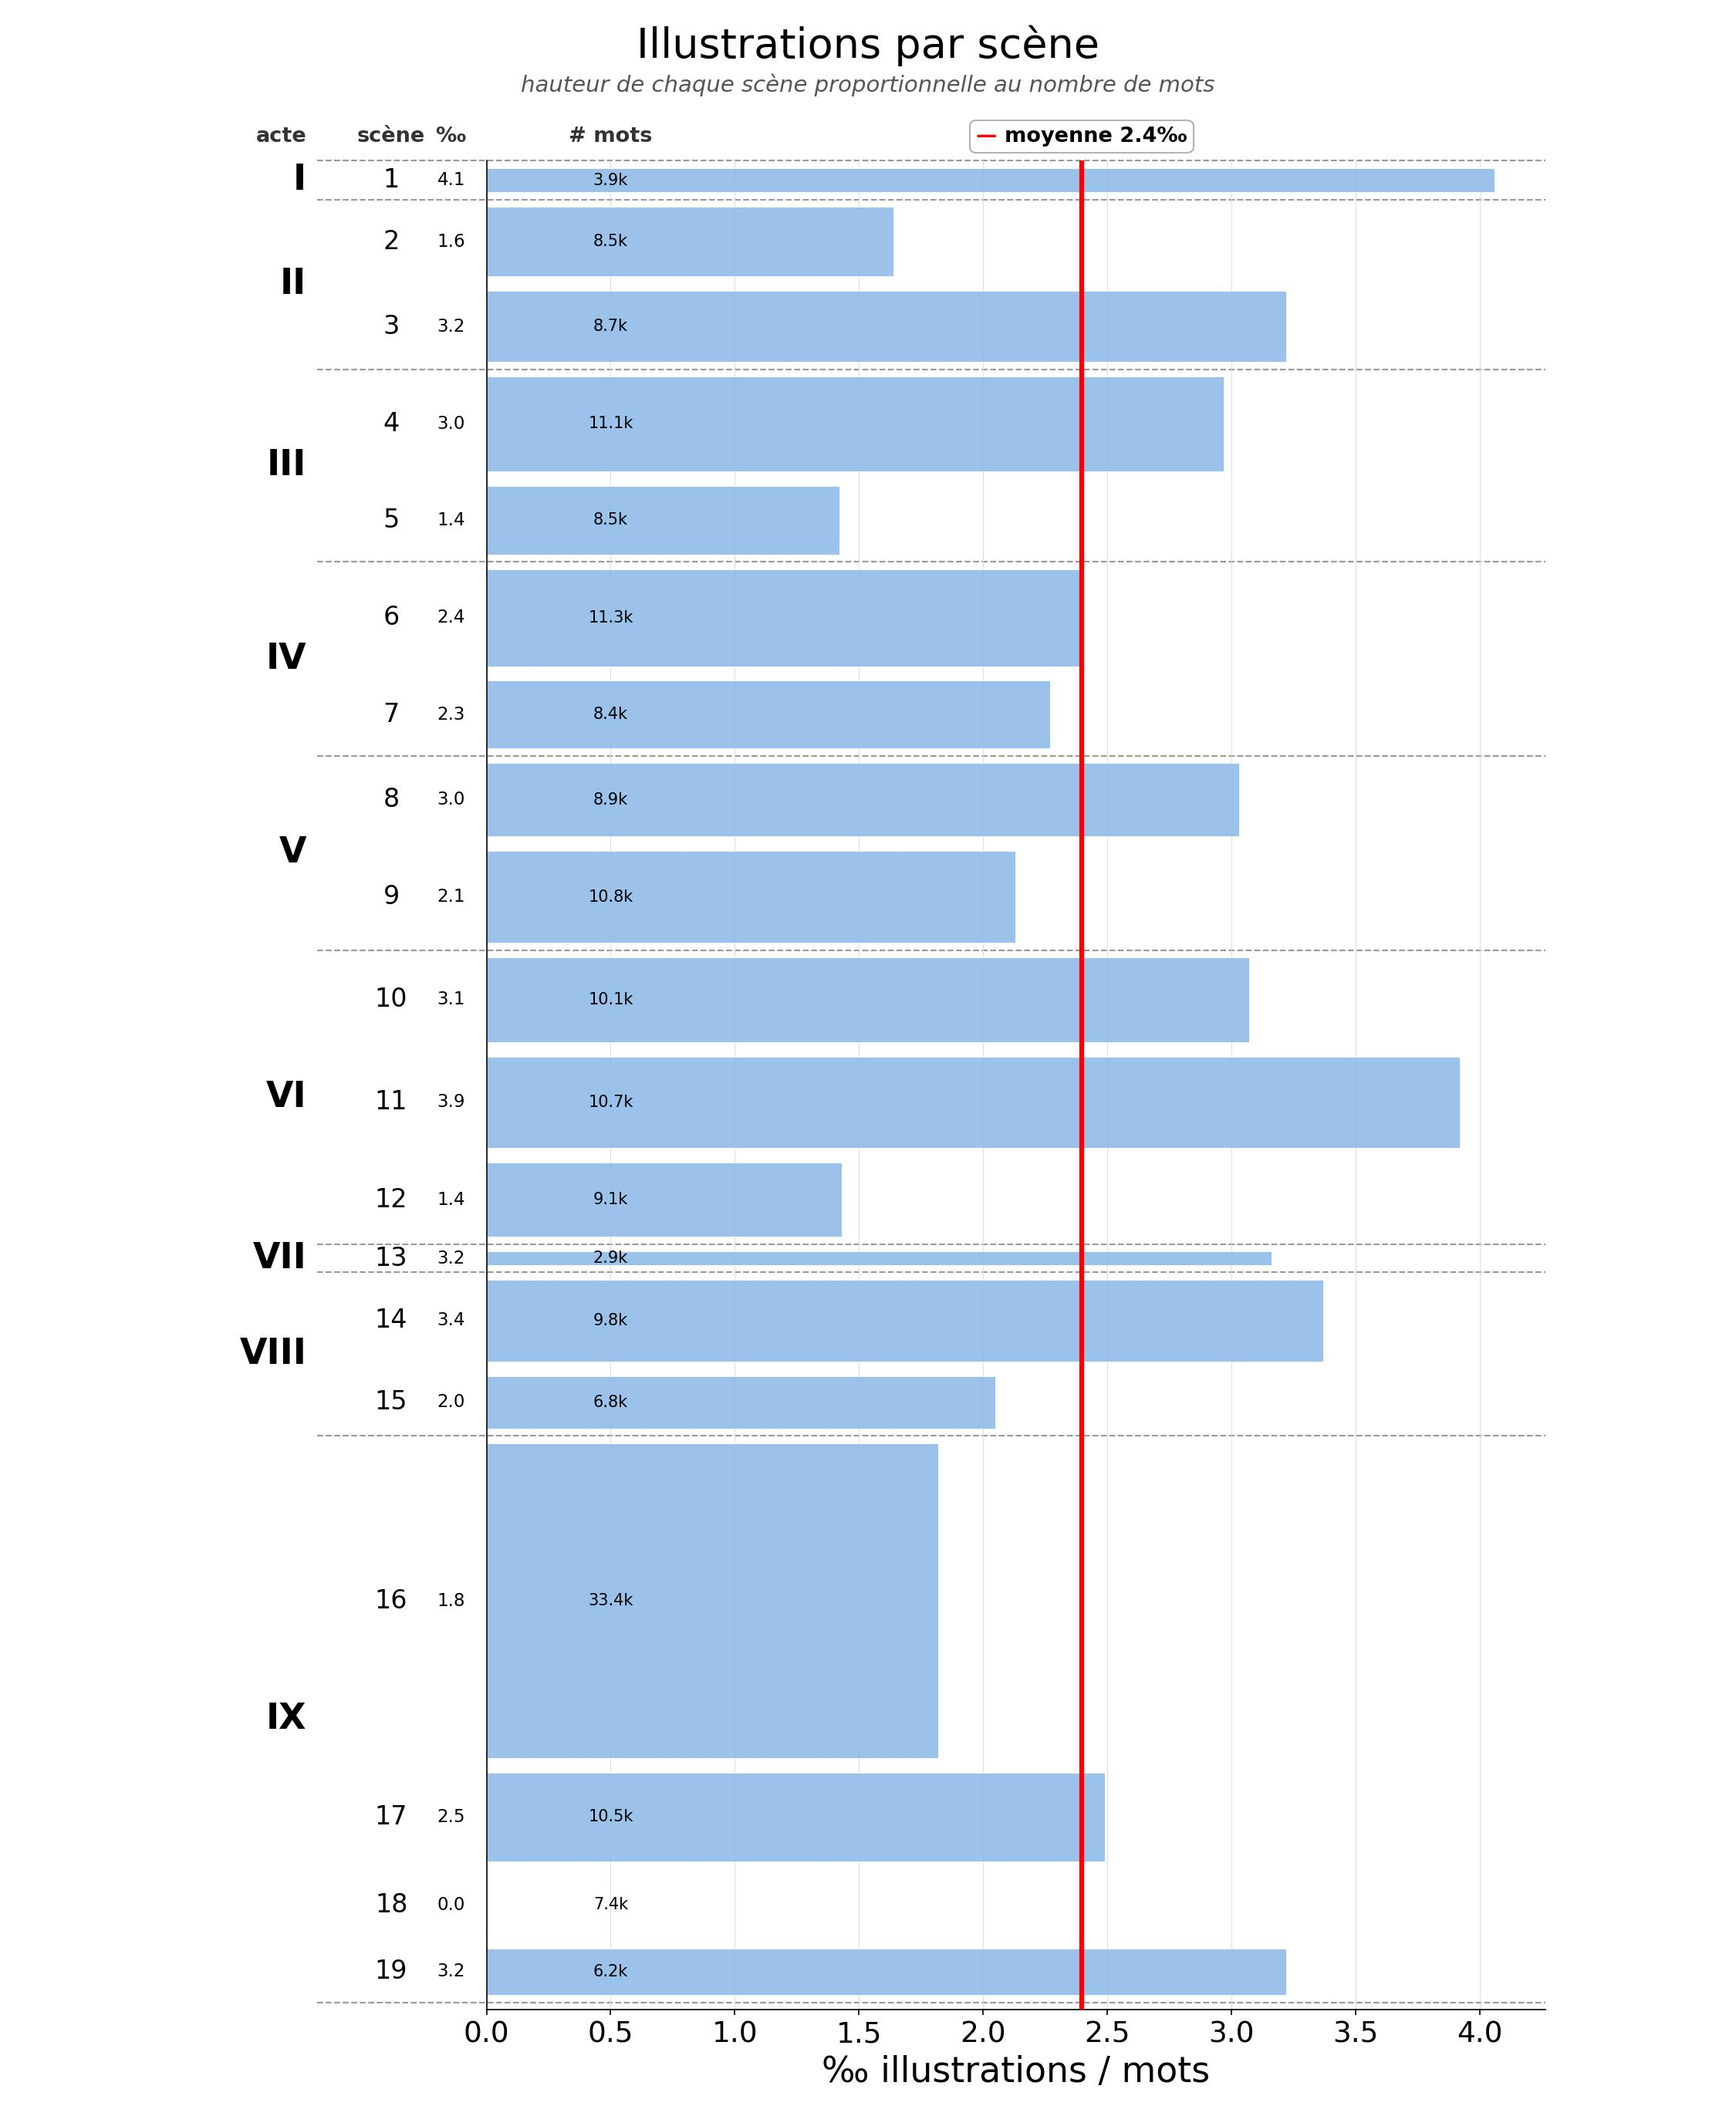
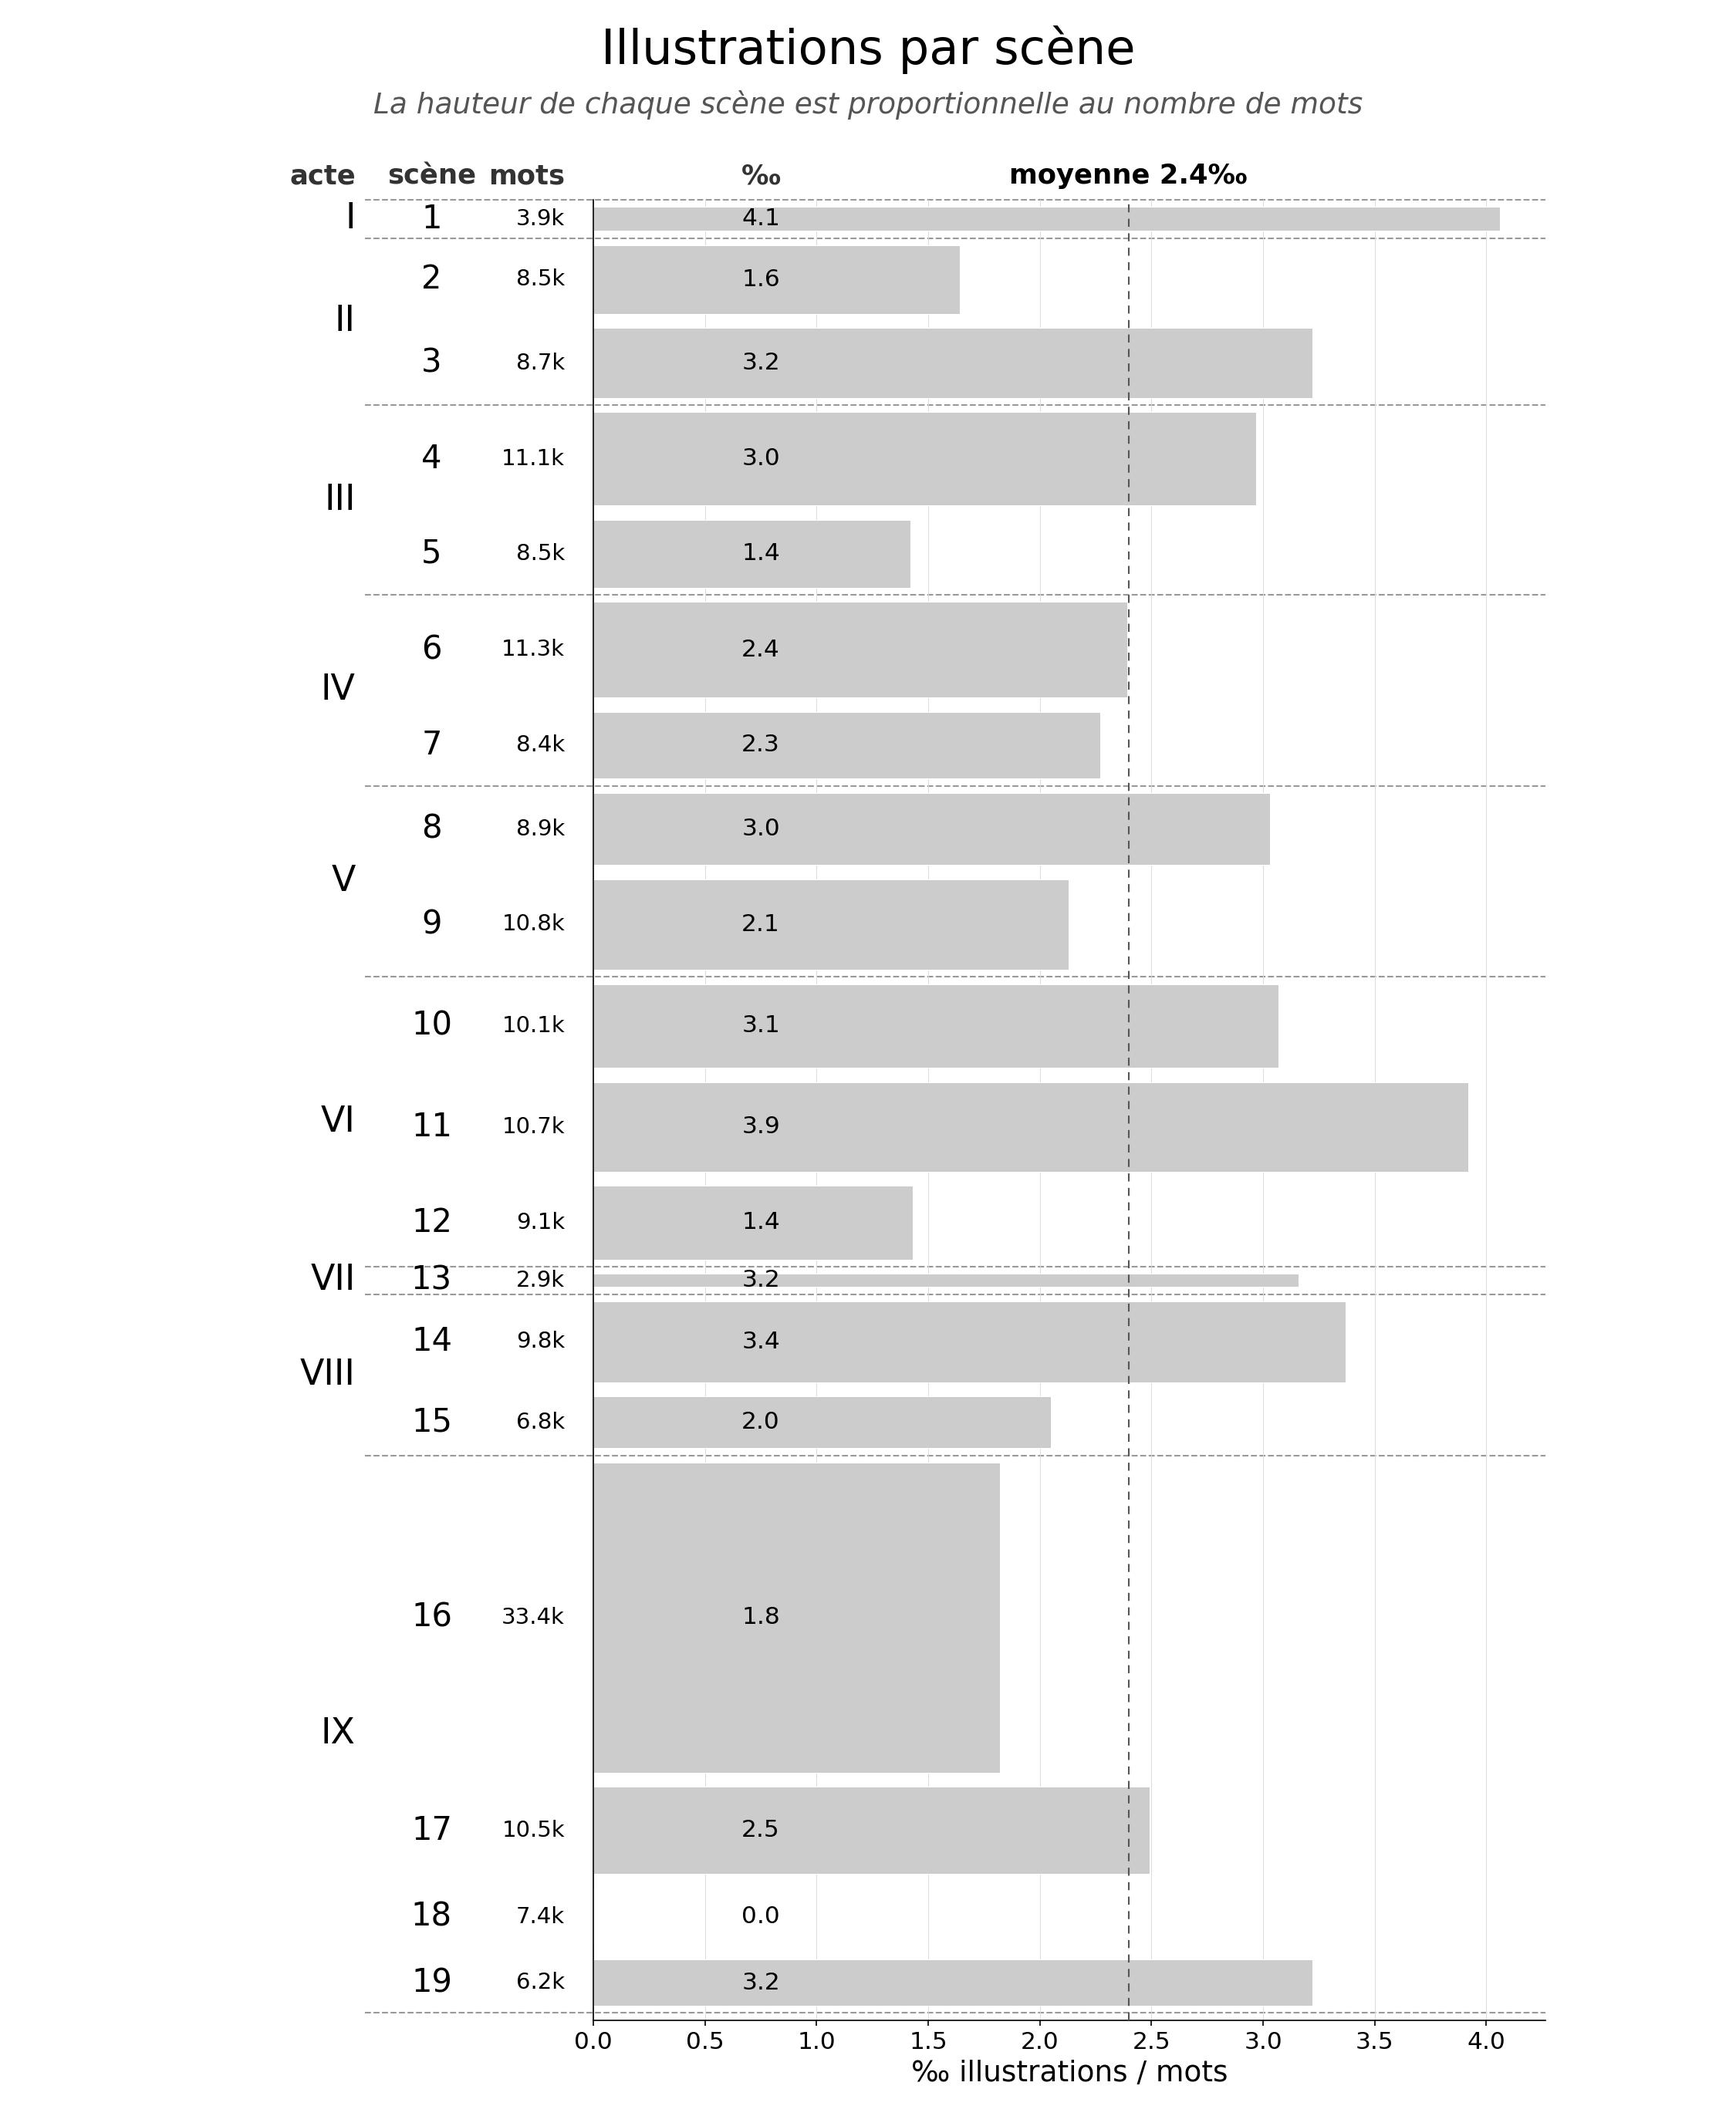
stats: horizontal chart B&W overhaul — grayscale bars, dashed mean line, larger fonts, swapped mots/‰ columns

diff --git a/stats.py b/stats.py
@@ -456,7 +456,7 @@ def _png_illus_chart_h(rows_split: list) -> str:
         matplotlib.use("Agg")
         import matplotlib.pyplot as plt
         from matplotlib.transforms import blended_transform_factory
-        from matplotlib.offsetbox import TextArea, HPacker, AnnotationBbox
+
     except ImportError:
         return ""
 
@@ -481,24 +481,24 @@ def _png_illus_chart_h(rows_split: list) -> str:
     trans_mixed = blended_transform_factory(ax.transAxes, ax.transData)
 
     # Column x positions (axes fraction, except # mots which is in data x)
-    X_ACTE = -0.17   # acte Roman numeral — right-aligned
-    X_SC   = -0.09   # scene number       — centre-aligned
-    X_PROM = -0.02   # ‰ value            — right-aligned
+    X_ACTE = -0.25   # acte Roman numeral — right-aligned
+    X_SC   = -0.17   # scene number       — centre-aligned
+    X_PROM = -0.03   # mots value         — right-aligned
     # # mots at data x = 0.5
 
     for b, v, bh, wc in zip(bottoms, values, bar_heights_actual, words):
         y_bot = b + offset
         y_ctr = y_bot + bh / 2
-        ax.barh(y_bot, v, height=bh, align="edge", color="#89b8e8", alpha=0.85,
+        ax.barh(y_bot, v, height=bh, align="edge", color="#cccccc", alpha=1.0,
                 zorder=2, edgecolor="white", linewidth=0.5)
-        # ‰ value — own column, right of scene number, left of bar
-        ax.annotate(f"{v:.1f}", xy=(X_PROM, y_ctr), xycoords=("axes fraction", "data"),
-                    ha="right", va="center", fontsize=11, clip_on=False, zorder=4)
-        # word count pinned at x=0.5 graduation
-        ax.text(0.5, y_ctr, f"{wc/1000:.1f}k", ha="center", va="center",
-                fontsize=10, color="black", zorder=4)
+        # word count — own column, right of scene number, left of bar
+        ax.annotate(f"{wc/1000:.1f}k", xy=(X_PROM, y_ctr), xycoords=("axes fraction", "data"),
+                    ha="right", va="center", fontsize=14, clip_on=False, zorder=4)
+        # ‰ value pinned at x=0.75 graduation
+        ax.text(0.75, y_ctr, f"{v:.1f}", ha="center", va="center",
+                fontsize=15, color="black", zorder=4)
 
-    ax.axvline(mean_val, color="red", linewidth=3.0, zorder=3)
+    ax.axvline(mean_val, color="#555555", linewidth=1.0, linestyle=(0, (5, 4)), zorder=3)
 
     # Scene labels: manual annotations for precise x control; no default tick labels
     short_labels  = [lbl.split(".")[-1] for lbl in scene_labels]
@@ -508,12 +508,12 @@ def _png_illus_chart_h(rows_split: list) -> str:
     ax.tick_params(axis="y", length=0)
     for sc_lbl, y_ctr in zip(short_labels, ytick_centers):
         ax.annotate(sc_lbl, xy=(X_SC, y_ctr), xycoords=("axes fraction", "data"),
-                    ha="center", va="center", fontsize=16, clip_on=False, zorder=4)
+                    ha="center", va="center", fontsize=20, clip_on=False, zorder=4)
     ax.set_ylim(0, scale + offset)
     ax.invert_yaxis()
 
     # Acte boundaries: horizontal separators + Roman numeral labels to the left
-    x_left = -0.16
+    x_left = -0.24
 
     boundaries = [0.0]
     for i in range(1, len(acte_labels)):
@@ -530,33 +530,27 @@ def _png_illus_chart_h(rows_split: list) -> str:
     for k, acte in enumerate(actes_ordered):
         y_mid = (boundaries[k] + boundaries[k + 1]) / 2
         ax.annotate(acte, xy=(X_ACTE, y_mid), xycoords=("axes fraction", "data"),
-                    ha="right", va="center", fontsize=22, fontweight="bold",
+                    ha="right", va="center", fontsize=22,
                     annotation_clip=False)
 
     # Column header row above the first separator
     hdr_y  = -0.25
-    hdr_kw = dict(va="center", fontsize=13, fontweight="bold", color="#333",
+    hdr_kw = dict(va="center", fontsize=17, fontweight="bold", color="#333",
                   clip_on=False, zorder=5)
     ax.annotate("acte",   xy=(X_ACTE, hdr_y), xycoords=("axes fraction", "data"),
                 ha="right", annotation_clip=False, **hdr_kw)
     ax.annotate("scène",  xy=(X_SC, hdr_y),   xycoords=("axes fraction", "data"),
                 ha="center", annotation_clip=False, **hdr_kw)
-    ax.annotate("‰",      xy=(X_PROM, hdr_y), xycoords=("axes fraction", "data"),
+    ax.annotate("mots",   xy=(X_PROM, hdr_y), xycoords=("axes fraction", "data"),
                 ha="right", annotation_clip=False, **hdr_kw)
-    ax.annotate("# mots", xy=(0.5, hdr_y),    xycoords=("data", "data"),
+    ax.annotate("‰",      xy=(0.75, hdr_y),   xycoords=("data", "data"),
                 ha="center", annotation_clip=False, **hdr_kw)
-    _dash = TextArea("— ", textprops=dict(color="red",   fontsize=13, fontweight="bold"))
-    _txt  = TextArea(f"moyenne {mean_val:.1f}‰",
-                     textprops=dict(color="black", fontsize=13, fontweight="bold"))
-    _box  = HPacker(children=[_dash, _txt], pad=0, sep=0)
-    ax.add_artist(AnnotationBbox(
-        _box, (mean_val, hdr_y), xycoords=("data", "data"),
-        box_alignment=(0.5, 0.5), clip_on=False, zorder=5,
-        bboxprops=dict(boxstyle="round,pad=0.4", facecolor="white",
-                       edgecolor="#aaaaaa", linewidth=1.0, alpha=0.9)))
+    ax.annotate(f"moyenne {mean_val:.1f}‰", xy=(mean_val, hdr_y), xycoords="data",
+                ha="center", va="center", fontsize=17, fontweight="bold",
+                annotation_clip=False, zorder=5)
 
-    ax.set_xlabel("‰ illustrations / mots", fontsize=22)
-    ax.tick_params(axis="x", labelsize=18)
+    ax.set_xlabel("‰ illustrations / mots", fontsize=18)
+    ax.tick_params(axis="x", labelsize=15)
 
     ax.grid(axis="x", linewidth=0.5, color="#ddd", zorder=0)
     ax.spines["top"].set_visible(False)
@@ -564,11 +558,11 @@ def _png_illus_chart_h(rows_split: list) -> str:
 
     # Titles centered on full figure width; subtitle offset to avoid overlap with main title
     fig.text(0.5, 0.988, "Illustrations par scène",
-             ha="center", va="top", fontsize=26)
-    fig.text(0.5, 0.965, "hauteur de chaque scène proportionnelle au nombre de mots",
-             ha="center", va="top", fontsize=14, fontstyle="italic", color="#555")
+             ha="center", va="top", fontsize=30)
+    fig.text(0.5, 0.957, "La hauteur de chaque scène est proportionnelle au nombre de mots",
+             ha="center", va="top", fontsize=18, fontstyle="italic", color="#555")
 
-    plt.tight_layout(rect=[0.10, 0, 0.90, 0.950])
+    plt.tight_layout(rect=[0.10, 0, 0.90, 0.930])
 
     import hashlib
     out = ROOT / "stats_illus_chart_h.jpg"

diff --git a/stats.md b/stats.md
@@ -26,25 +26,25 @@ Mots = texte original uniquement (hors contenu des notes `\nf{}`).
 | IX.19 | Il est toujours extrêmement douloureux de mettre… | 723 | 234 |   6 214 |   3.32% |  25.43% |    23 |  0.37% |            20 |  0.32% |
 | **Total** | |  |  | **186 925** | **100%** | **29.40%** | **1081** | **0.58%** | **448** | **0.24%** |
 
-![Illustrations par scène (horizontal)](stats_illus_chart_h.jpg?v=bc30626b)
+![Illustrations par scène (horizontal)](stats_illus_chart_h.jpg?v=cb909309)
 
 # Statistiques par acte (avant découpage)
 
 Mots = texte original uniquement (hors contenu des notes `\nf{}`).
 % notes et % illustrations = rapport au nombre de mots.
 
-| Acte | Mots | % livre | Notes | % mots | Illustrations | % mots |
-|-----:|-----:|--------:|------:|-------:|--------------:|-------:|
-| I    |   3 943 |   2.11% |    22 |  0.56% |            16 |  0.41% |
-| II   |  17 216 |   9.21% |    85 |  0.49% |            42 |  0.24% |
-| III  |  19 562 |  10.47% |   110 |  0.56% |            45 |  0.23% |
-| IV   |  19 681 |  10.53% |    88 |  0.45% |            46 |  0.23% |
-| V    |  19 716 |  10.55% |   100 |  0.51% |            50 |  0.25% |
-| VI   |  29 853 |  15.97% |   202 |  0.68% |            86 |  0.29% |
-| VII  |   2 852 |   1.53% |    14 |  0.49% |             9 |  0.32% |
-| VIII |  16 616 |   8.89% |   111 |  0.67% |            47 |  0.28% |
-| IX   |  57 486 |  30.75% |   349 |  0.61% |           107 |  0.19% |
-| **Total** | **186 925** | **100%** | **1081** | **0.58%** | **448** | **0.24%** |
+| Acte | p. | pp. | Mots | % livre | Notes | % mots | Illustrations | % mots |
+|-----:|---:|----:|-----:|--------:|------:|-------:|--------------:|-------:|
+| I    |   3 |  14 |   3 943 |   2.11% |    22 |  0.56% |            16 |  0.41% |
+| II   |  17 |  56 |  17 216 |   9.21% |    85 |  0.49% |            42 |  0.24% |
+| III  |  73 |  68 |  19 562 |  10.47% |   110 |  0.56% |            45 |  0.23% |
+| IV   | 141 |  66 |  19 681 |  10.53% |    88 |  0.45% |            46 |  0.23% |
+| V    | 207 |  66 |  19 716 |  10.55% |   100 |  0.51% |            50 |  0.25% |
+| VI   | 273 | 106 |  29 853 |  15.97% |   202 |  0.68% |            86 |  0.29% |
+| VII  | 379 |  12 |   2 852 |   1.53% |    14 |  0.49% |             9 |  0.32% |
+| VIII | 391 |  54 |  16 616 |   8.89% |   111 |  0.67% |            47 |  0.28% |
+| IX   | 445 | 184 |  57 486 |  30.75% |   349 |  0.61% |           107 |  0.19% |
+| **Total** |  |  | **186 925** | **100%** | **1081** | **0.58%** | **448** | **0.24%** |
 
 ## Estimation illustrations restantes
 
